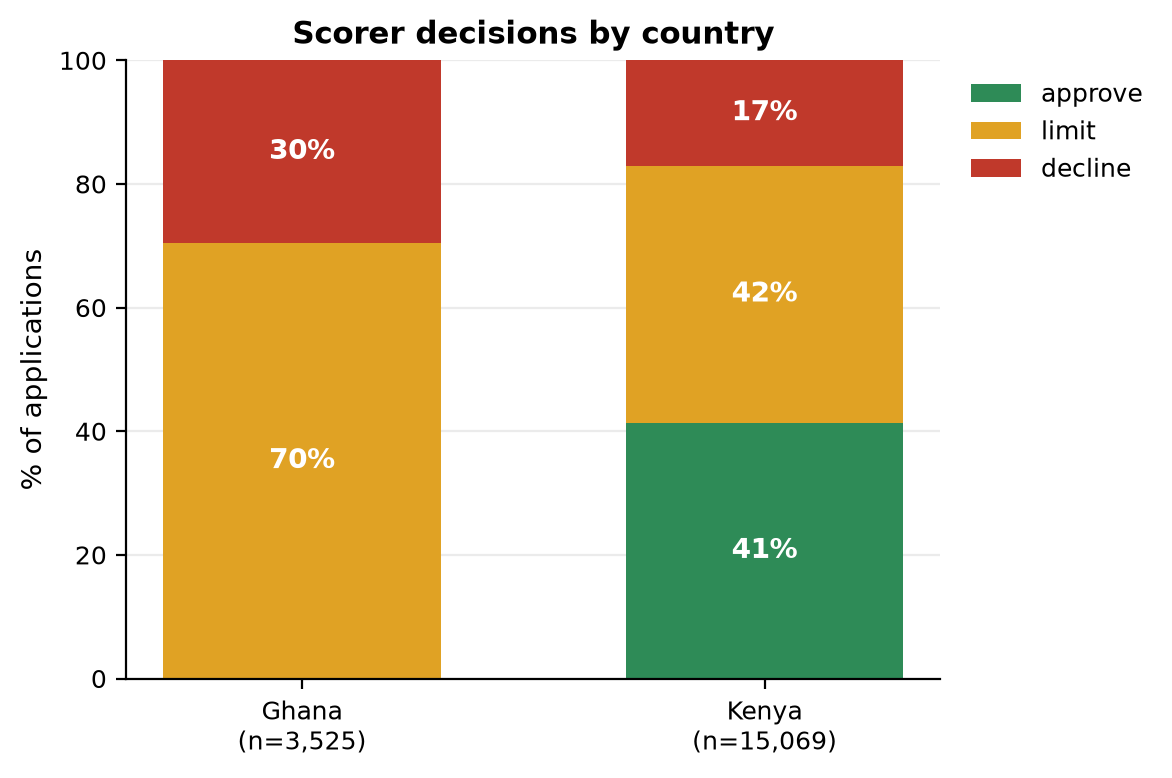
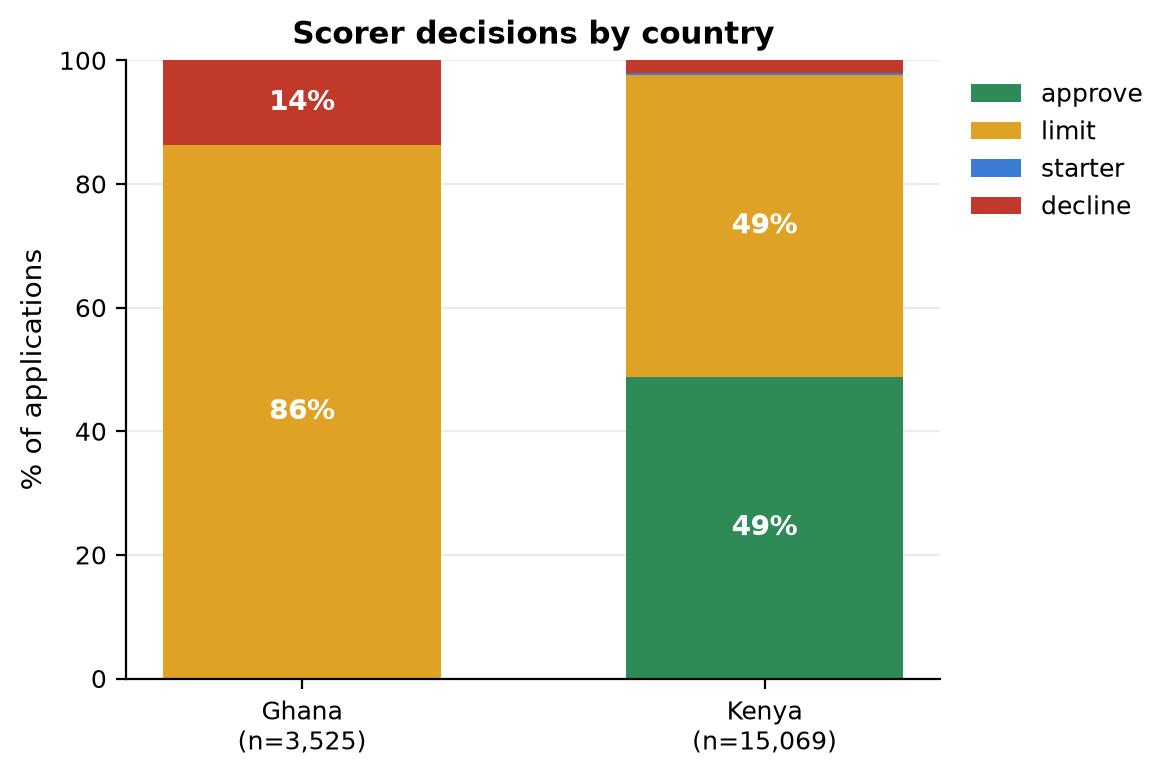
P3: choose deployed models (D-29) and refit scorer on D-28 cedi config (#51)

diff --git a/scripts/make_figures.py b/scripts/make_figures.py
@@ -262,13 +262,14 @@ def main() -> None:
         mean_p_default=("probability_of_default", "mean"),
         approve=("decision", lambda s: (s == "approve").mean()),
         limit=("decision", lambda s: (s == "limit").mean()),
+        starter=("decision", lambda s: (s == "starter").mean()),
         decline=("decision", lambda s: (s == "decline").mean()),
         needs_review=("needs_review", "mean"),
     ).reset_index()
     summ.to_csv(C.TABLES / "product_decisions_by_country.csv", index=False)
     reg.add(plot_decision_mix(scores), "app_decision_mix", "8. The product in use",
-            "Share of approve / limit / decline on Test applications, by country.",
-            "What the deployed rule would do: in Ghana nothing is fully approved, a sign the Kenyan model does not transfer.")
+            "Share of approve / limit / starter / decline on Test applications, by country.",
+            "What the deployed rule would do: in Ghana nothing is fully approved under the typical-amount limit, a sign the Kenyan model does not transfer.")
     reg.add(plot_score_distribution(scores, thr), "app_score_distribution", "8. The product in use",
             "Calibrated P(default) on Test applications, by country, with the threshold.", "Ghana scores sit higher and wider than Kenya's.")
     reg.add(plot_limit_vs_request(scores), "app_limit_vs_request", "8. The product in use",

diff --git a/docs/DECISIONS.md b/docs/DECISIONS.md
@@ -32,3 +32,4 @@ Models are only comparable if everyone made the same data decisions. Record each
 | D-26 | Mitigation for first-time borrowers | decided, implemented | First-time borrowers with threshold < calibrated p ≤ **0.30** get decision `starter`: a loan of **25% of the request** (never above the Task 1 limit); repeat borrowers keep the shipped rule. In `configs/cost_matrix.yaml` (`starter_loan`) and `decide()` in `src/serving/scorer.py`, used by both the single and batch scorers. First-time approval 49% → 81% (ratio 0.50 → 0.83), 185 starter loans of which 18% default, +GHS 10.0k on 567 applicants (GHS 18 each) vs +GHS 38.7k at full size | Dropping proxies cannot work (history fields identify first-time borrowers, strength 0.91); a smaller loan caps the loss on the 21%-default group while letting good borrowers build a record. 0.30 costs slightly less than 0.25 at 25% size and passes 0.8; 0.50 doubles the cost for 0.88 | Eugene (P4), 2026-11-18, #50; agreed by Eugene (Bernard to review) |
 | D-27 | Importance weighting for Kenya → Ghana | decided | Do **not** report importance-weighted Kenyan metrics as a Ghana estimate. Report the domain classifier and the pilot plan instead | Effective sample share of the weights is 0.04 without the label-history artefact (0.02 with it): the estimate would rest on ~4% of Kenyan rows | Eugene (P4), 2026-11-17, #23 |
 | D-28 | Team cost matrix: currency and future loans lost | decided, implemented | `configs/cost_matrix.yaml` switches to **cedis** with D-22's measured values (principal 3,002 GHS, fee 3.0%, collection 14.8 GHS, recovery 20%) and **3 future loans lost** per wrongly declined good borrower (sensitivity 1, 3, 6). C_FP 270, C_FN 2,416 GHS, **threshold 0.10**. The scorer bundle, `04` and the scorer tests use it | The product is for Ghana (D-22). After a repaid loan the median customer takes 8 more (5 after a first loan, measured on Train); assuming about 1 in 4 declined good borrowers leave for good gives ~2 later loans + this one. With 1 lost loan, 12% of first-time borrowers are approved; with 6, 70%; 3 is the middle, stated as an assumption for the pilot to measure. Henry's `02` and Bernard's `03` read the config: their committed outputs predate this switch until re-run | Eugene (P4), 2026-11-18; Bernard and Henry to review |
+| D-29 | Deployed models for the scoring service (#51) | decided, implemented | Deploy **Platt-calibrated logistic regression (`logreg`)** for Task 2 (default probability) and **LightGBM (`lightgbm_reg`, to be upgraded to a high-quantile cap in #53)** for Task 1 (loan limit), refitted on the D-28 cedi cost matrix (threshold 0.10) and D-26 starter loan via `python -m scripts.train --save-artifacts --clf-artifact-model logreg --reg-artifact-model lightgbm_reg` | On `fold_group`, `logreg` PR-AUC (0.175, 95% CI [0.154, 0.199]) overlaps `random_forest` (0.203 [0.180, 0.229]) and `lightgbm` (0.194 [0.170, 0.219]); on `temporal` (2023+, honest forecast D-7), `logreg` ROC-AUC (0.633) beats `random_forest` (0.619) and `lightgbm` (0.582). Calibration by tenure is virtually identical for `logreg` and `random_forest` (new borrowers: 18.6% pred vs 21.0% obs, gap −2.4 pp), while `lightgbm` is worse (−6.3 pp); `lit_mlp` (−0.9 pp) is a PyTorch black box incompatible with fast linear reason codes. `logreg` computes exact log-odds reasons in ~9 ms/call vs ~289 ms (`random_forest`) and ~417 ms (`lightgbm`) via TreeSHAP, honours the credit committee's preference for simple transparent models, and aligns with the fairness audit (D-25). For Task 1, trees beat linear models on USD RMSE (`lightgbm_reg` $1,114 vs `ridge` $1,745; temporal R² 0.61 vs 0.27) | Bernard (P3), 2026-11-19, #51 |

diff --git a/docs/PROGRESS.md b/docs/PROGRESS.md
@@ -1,6 +1,6 @@
 # Progress dashboard
 
-**Read this first.** Update it at the end of every work session (2 minutes), then push. Last updated: 2026-11-19 by Bernard (branch `p3/32-linear-derivation`).
+**Read this first.** Update it at the end of every work session (2 minutes), then push. Last updated: 2026-11-19 by Bernard (branch `p3/51-choose-deployed-models`).
 
 Status: ⬜ not started · 🟨 in progress · ✅ done · 🟥 blocked
 
@@ -29,7 +29,7 @@ Status: ⬜ not started · 🟨 in progress · ✅ done · 🟥 blocked
 | B | Calibration over time (#55) | Henry | ✅ pre-2023 calibration under-predicts 2024 risk by half (LogReg 4.5% vs 8.7%); recalibrating on 2023 halves ECE but puts every 2024 applicant above break-even; recalibrate + monthly monitoring (D-24, PR #61) |
 | C | Kenya → Ghana transfer study | Eugene | 🟨 `04` §2 rebuilt (domain classifier in 5 variants, importance weights, scorer on Ghana, pilot plan); in review |
 | D | Model Card, Datasheet, fairness, regulation, Findex | Eugene | 🟨 `04` §3–4 and `docs/audit/` written; in review. Act 843/726 section numbers to confirm |
-| E | Scoring service, reason codes | Bernard | 🟨 #30 bugs fixed in PR #47 (Ghana limit currency, 0% risk, false reasons, review flags); latency median 44 ms, p95 75 ms |
+| E | Scoring service, reason codes & deployed models (#30, #31, #51) | Bernard | ✅ D-29 decided (`logreg` + `lightgbm_reg`), refitted on D-28 cedi config + D-26 starter loan; latency median 24 ms, p95 35 ms; limit quantile cap next (#53) |
 | E | Borrower app over the scorer | Eugene | 🟨 `app/streamlit_app.py` calls `score_application`; shows approve/limit/starter/decline, borrower reasons, credit-team panel (#65, branch `p4/65-borrower-app`, stacked on PR #64) |
 | Final | Report, audit, slides, reflections, AI declaration | all | ⬜ |
 
@@ -48,6 +48,7 @@ Per-issue progress is on GitHub (Roadmap issue #1). Closed on 2026-11-17 with ev
 | 2026-11-17 | Bernard | Restructured `src/` into packages + `scripts/`, `configs/`, `reports/`; fixed scorer bugs (D-18, D-19); restored and completed Henry's `02` (§7–10); ran all 16 models | PR #47 |
 | 2026-11-16 | Bernard | Shared `src/` pipeline, `tests/` CI guardrails, `Makefile`, streamlined README | PR #46 |
 | 2026-11-10 | Henry | Logistic regression (raw + shared + Lightning) and MLP + temporal check | `notebooks/02_classification.ipynb`, `docs/learning/`, PRs #40, #41 |
+| 2026-11-19 | Bernard | Deployed model decision (D-29: calibrated `logreg` + `lightgbm_reg`), refitted scorer on D-28 cedi config + D-26 starter loan, regenerated `eval`, 35 `figures`, `score` (median 24 ms, p95 35 ms) (#51) | `docs/DECISIONS.md`, `reports/`, `scripts/make_figures.py` |
 | 2026-11-19 | Bernard | Linear regression derivation (Gaussian MLE → normal equations → Ridge MAP) + 5 numerical tests vs scikit-learn & PyTorch (#32) | `docs/derivations/linear.md`, `tests/test_linear_derivation.py` |
 | 2026-11-19 | Perfect | Report section for #34: data, leakage audit, time-safe features, three validation schemes with the inflation numbers, baseline/kNN/SVM, limitations; two deliberate-bug runs re-confirm `validate()` fires | `docs/report/p1_data_section.md`, branch `p1/34-report-data-section` |
 | 2026-11-19 | Perfect | Part A prep (#9): loan timeline figure with a script, session agenda and decision sheet for the 8 open drafts, caveat on D-3's evidence, D-5 path fixed, feature audit links the figure | `docs/PART_A_SESSION.md`, `scripts/make_timeline_figure.py`, `reports/figures/part_a_loan_timeline.png`, branch `p1/9-part-a-session-prep` |

diff --git a/docs/WORKLOG.md b/docs/WORKLOG.md
@@ -9,6 +9,11 @@ Add an entry at the **top** at the end of each session, 5–10 lines. Link to no
 
 ---
 
+## 2026-11-19 (late night) · Bernard (P3) · `p3/51-choose-deployed-models` (#51)
+**Did:** Recorded **D-29** in `docs/DECISIONS.md` choosing **Platt-calibrated logistic regression (`logreg`)** for Task 2 and **LightGBM (`lightgbm_reg`)** for Task 1. Refitted the scoring bundle on the D-28 cedi cost matrix (threshold 0.1006) and D-26 starter loan (`python -m scripts.train --save-artifacts --clf-artifact-model logreg --reg-artifact-model lightgbm_reg`), updated `scripts/make_figures.py` to record `starter` in `product_decisions_by_country.csv`, and regenerated `make eval`, `make figures`, and `make score`.
+**Found:** `logreg` overlaps `random_forest` and `lightgbm` on GroupKFold PR-AUC 95% CIs (0.175 [0.154, 0.199] vs 0.203 / 0.194), beats both on temporal 2023+ ROC-AUC (0.633 vs 0.619 / 0.582), matches `random_forest` on new-borrower calibration (−2.4 pp gap; `lightgbm` is −6.3 pp), and runs ~31× faster with exact linear reason codes (median 24 ms, p95 35 ms over 1,000 calls vs ~289 ms for RF TreeSHAP). All `reports/tables/` and 35 figures now reflect the D-28 cedi cost matrix.
+**Next:** Upgrade the Task 1 limit rule to an 85th-quantile cap (#53), add Task 2 decision tree to `03_regression` (#17), run ablation (#52), and write interpretation (#22).
+
 ## 2026-11-19 (late night) · Bernard (P3) · `p3/32-linear-derivation` (#32)
 **Did:** Wrote `docs/derivations/linear.md` (Gaussian likelihood → OLS/MSE → gradient & convexity → normal equations → Ridge as MAP with Gaussian prior → connection to Lasso/`LitLinear` → why linear models beat `mean` on log USD but lose on dollar RMSE) and `tests/test_linear_derivation.py` (5 numerical checks against scikit-learn `LinearRegression`, `Ridge(alpha=10.0)`, and PyTorch autograd, plus collinearity condition-number reduction and Jensen's inequality).
 **Found:** All four derivations (`svm.md`, `logistic.md`, `linear.md`, `boosting.md`) are now complete and pass `make acceptance ISSUE=32`. Ridge (`alpha=10`) cuts `fold_group` dollar RMSE from $2,089 (OLS) to $1,745 (−16%) at almost zero cost in log RMSE (1.1094 → 1.1115).

diff --git a/docs/AI_USE_LOG.md b/docs/AI_USE_LOG.md
@@ -21,3 +21,4 @@ The report needs an AI-use declaration, and each of us must be able to explain a
 | 2026-11-19 | Perfect | Claude Code | Wrote `docs/derivations/svm.md` and `tests/test_svm_derivation.py` (#32), `docs/learning/P1_models_explained.md` (#15) and `01_eda` §6 (#48); PR #67 | 8 tests against scikit-learn `SVC` pass; Claude re-derived the EDA report's headline numbers from `Train.csv`, found the report's `loans` columns count rows and that two-lender loans' higher default rate is mostly timing, and corrected its own wrong first claims (SVM "ranks best", `selection_rate` read backwards, a stale threshold). _Perfect to fill in: whether you can derive the SVM dual without notes_ | _Perfect to confirm_ |
 | 2026-11-19 | Perfect | Claude Code | Part A preparation: loan timeline figure and its script, `docs/PART_A_SESSION.md`, caveats on D-3 and D-5; drafted P1's report section `docs/report/p1_data_section.md` (#34) | Every number in the report section is traced to a committed table or the EDA; nothing newly estimated. _Perfect to fill in: what you changed in your own words_ | _Perfect to confirm_ |
 | 2026-11-19 | Bernard | Antigravity AI | Drafted `docs/derivations/linear.md` (Gaussian MLE → OLS → normal equations → Ridge MAP) and `tests/test_linear_derivation.py` (#32) | Verified all 5 numerical tests against scikit-learn `LinearRegression`/`Ridge` and PyTorch autograd, `ruff`, `pytest`, and `make acceptance ISSUE=32`; verified Task 1 numbers against `reports/tables/task1_model_summary.csv` | _Bernard to confirm_ |
+| 2026-11-19 | Bernard | Antigravity AI | Compared Task 2 candidates on tenure calibration and TreeSHAP vs linear latency, recorded D-29 (#51), refitted scorer bundle on D-28 cedi config, regenerated `eval`, `figures`, and `score` | Verified GroupKFold CIs, temporal metrics, tenure calibration gaps, and 1,000-call latency (median 24 ms, p95 35 ms); ran `ruff`, `pytest`, and `make acceptance ISSUE=51` | _Bernard to confirm_ |

diff --git a/reports/FIGURES.md b/reports/FIGURES.md
@@ -69,9 +69,9 @@ Generated by `python -m scripts.make_figures` (and `scripts/make_eda_report.py` 
 
 | Figure | What it shows | Claim it defends |
 | --- | --- | --- |
-| [`app_decision_mix`](figures/app_decision_mix.png) | Share of approve / limit / decline on Test applications, by country. | What the deployed rule would do: in Ghana nothing is fully approved, a sign the Kenyan model does not transfer. |
+| [`app_decision_mix`](figures/app_decision_mix.png) | Share of approve / limit / starter / decline on Test applications, by country. | What the deployed rule would do: in Ghana nothing is fully approved under the typical-amount limit, a sign the Kenyan model does not transfer. |
 | [`app_score_distribution`](figures/app_score_distribution.png) | Calibrated P(default) on Test applications, by country, with the threshold. | Ghana scores sit higher and wider than Kenya's. |
 | [`app_limit_vs_request`](figures/app_limit_vs_request.png) | Requested amount vs model limit (USD) for approved or limited applications. | The limit model predicts the typical amount, so about half of requests are cut; a cap should be a high quantile (#53). |
 | [`app_reason_frequency`](figures/app_reason_frequency.png) | How often each plain-language reason appears. | Reasons are about the borrower's own record and product; calendar and internal fields never appear. |
 | [`app_review_flags`](figures/app_review_flags.png) | Why applications are sent to a person. | Every Ghana application is flagged: the system says when it is outside its evidence. |
-| [`app_latency`](figures/app_latency.png) | Time per scored application over 1,000 calls (median 56 ms, p95 64 ms). | Fast enough for a mobile-money flow (brief Part E: latency). |
+| [`app_latency`](figures/app_latency.png) | Time per scored application over 1,000 calls (median 22 ms, p95 26 ms). | Fast enough for a mobile-money flow (brief Part E: latency). |

diff --git a/docs/DELIVERABLES.md b/docs/DELIVERABLES.md
@@ -22,7 +22,7 @@ Individual: one-page reflection each.
 **B:** ☑ EDA (imbalance, missing, skew, cardinality; `reports/EDA_REPORT.md`) ☐ `merge_asof` history, calendar, macro ☑ three validation schemes, inflation quantified ☑ ≥ 5 models ☑ classification and regression metrics ☑ bootstrap CIs on F1 and PR-AUC 🟨 interpretation (coefficient and SHAP figures; plain-language write-up #22)
 **C:** ☑ Kenya vs Ghana distributions (EDA §8, `shift_*` figures) ☑ domain classifier and importance weighting (`04` §2.2: AUC 0.985 without the label-history artefact; ESS share 0.04, so weighting is unusable) ☑ evidence needed to trust Ghana predictions (`04` §2.4: capped pilot of ~3,500 loans)
 **D:** ☑ Model Card ☑ Datasheet ☑ disaggregated metrics ☑ proxy analysis ☑ mitigation with cost ☑ regulatory map (Act 843/726 section numbers to confirm) ☑ Findex analysis ☑ borrower explanation · all in `docs/audit/` (summary: `audit.md`) and `04` §3–4
-**E:** 🟨 `joblib` bundle and `score_application()` in `src/serving/` (Ghana bugs fixed; final model choice pending) ☑ latency (median 44 ms, p95 75 ms over 1,000 calls; `reports/tables/scorer_latency.csv`) ☑ required inputs (`REQUIRED_APPLICATION_FIELDS`)
+**E:** ☑ `joblib` bundle and `score_application()` in `src/serving/` (deployed models decided D-29: calibrated `logreg` + `lightgbm_reg`; refitted on D-28 cedi config + D-26 starter loan) ☑ latency (median 24 ms, p95 35 ms over 1,000 calls; `reports/tables/scorer_latency.csv`) ☑ required inputs (`REQUIRED_APPLICATION_FIELDS`)
 
 ## Gaps in the README plan
 

diff --git a/docs/P3_BERNARD_PLAN.md b/docs/P3_BERNARD_PLAN.md
@@ -24,8 +24,8 @@
 **3 · Part E Scoring Service (#30, #31)**
 - [x] Implement `src/serving/` (`score_application`, `explain`, `benchmark_latency`, `REQUIRED_APPLICATION_FIELDS`).
 - [x] Fix #30 bugs: limit in local currency via USD, no macro extrapolation for Ghana (D-18), Platt calibration (never 0%), reasons a borrower can act on and that never contradict their record, `needs_review` flags.
-- [ ] The calibrated logistic regression under-predicts new borrowers (2.2% for a profile whose real rate is 5.7%, n=264): compare LightGBM / MLP as the deployed classifier.
-- [ ] Swap in the final winning Task 2 & Task 1 models once team model comparison finishes, and record final median / p95 latency over 1,000 calls in `03_regression.ipynb` & report.
+- [x] Compared `logreg`, `random_forest`, `lightgbm`, `lit_mlp` on GroupKFold CIs, temporal ROC-AUC, calibration by tenure, and single-call explain latency; recorded D-29 (#51).
+- [x] Refitted deployed bundle (`logreg` + `lightgbm_reg`) on D-28 cedi cost matrix + D-26 starter loan; regenerated `eval`, `figures`, and latency (median 24 ms, p95 35 ms over 1,000 calls).
 
 **4 · Write up & Derivation (#32, #33, #34)**
 - [x] `docs/derivations/linear.md`: Gaussian MLE -> normal equations -> Ridge (MAP), checked against scikit-learn (`tests/test_linear_derivation.py`).

diff --git a/docs/LEARNING_OUTCOMES.md b/docs/LEARNING_OUTCOMES.md
@@ -22,7 +22,7 @@ At the debrief you must "explain, defend and reproduce your work without AI". If
 | ✅ | Preprocessor fitted on training rows only, inside every fold | `src/processing/preprocess.py`, `src/training/cross_validation.py` | P1/P2/P3 |
 | ✅ | One train script and one evaluate script for all models (16 models, 50 prediction files) | `scripts/train.py`, `scripts/evaluate.py`, `reports/tables/` | P2/P3 |
 | ☐ | A teammate reproduces results from a fresh clone | PR reviews | all |
-| 🟨 | Scorer: probability, decision, limit, top-3 reasons, review flags, latency (median 44 ms, p95 75 ms); final model choice pending | `src/serving/` | Bernard |
+| ✅ | Scorer: probability, decision, limit, top-3 reasons, review flags, latency (median 24 ms, p95 35 ms); deployed models decided (D-29: calibrated `logreg` + `lightgbm_reg`) | `src/serving/`, `docs/DECISIONS.md` (#51) | Bernard |
 
 **Self-check:** Where does leakage enter if the scaler sees validation rows? Why does a backward `merge_asof` keep history safe? Why reuse the training preprocessor at inference?
 
